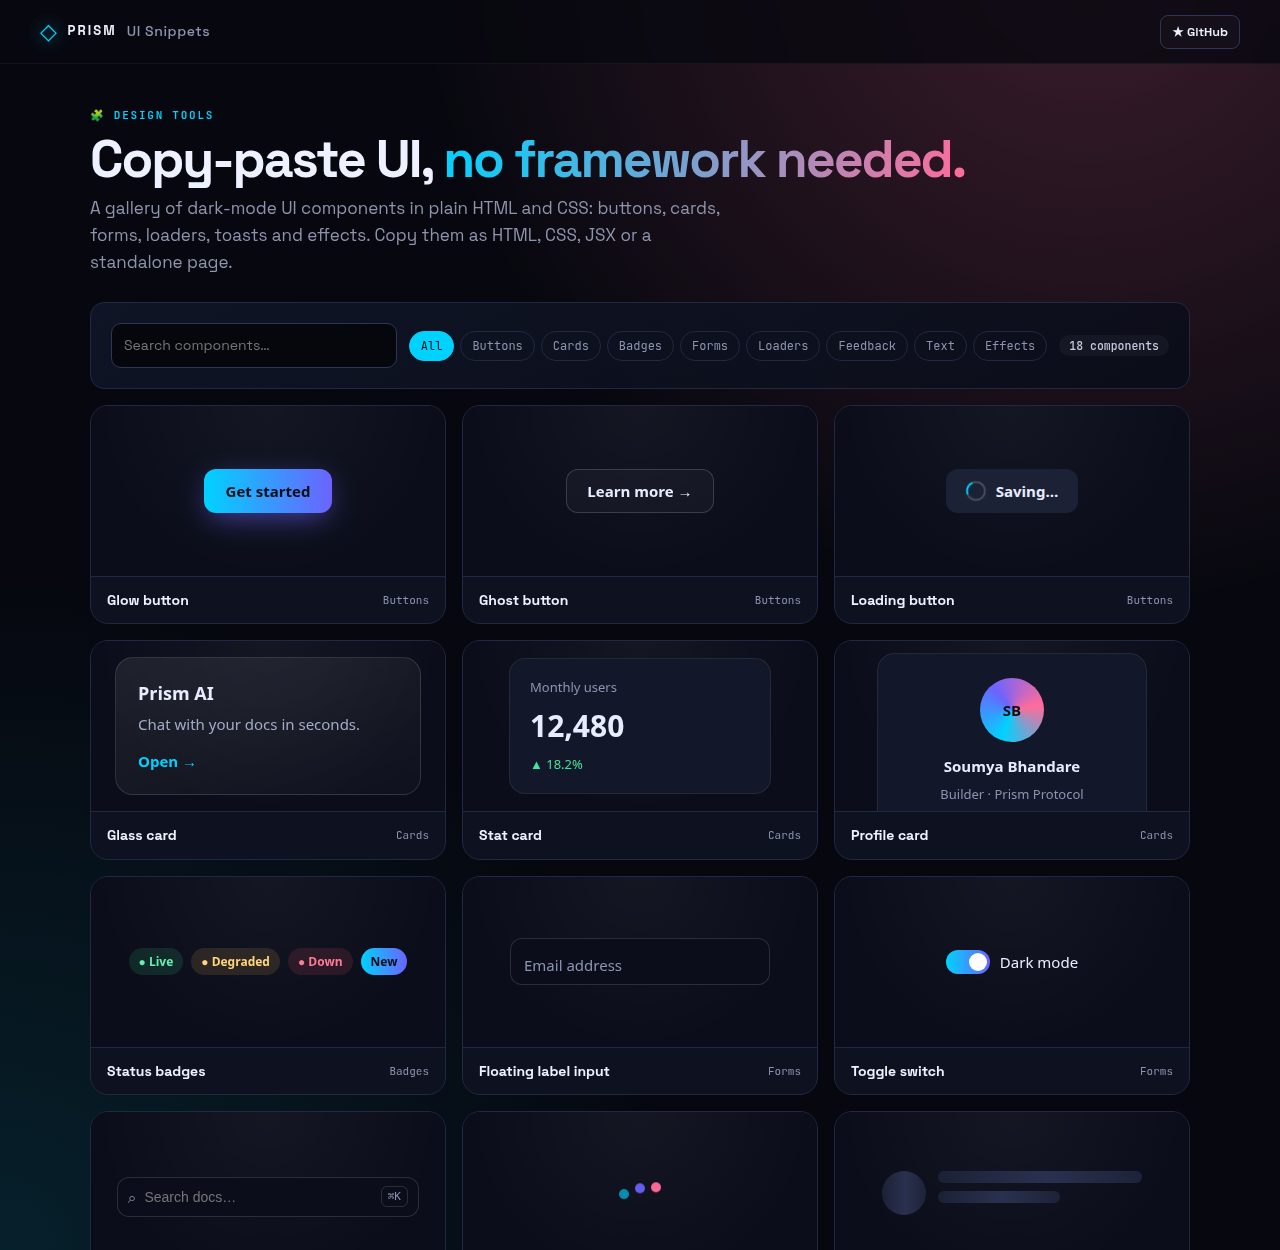
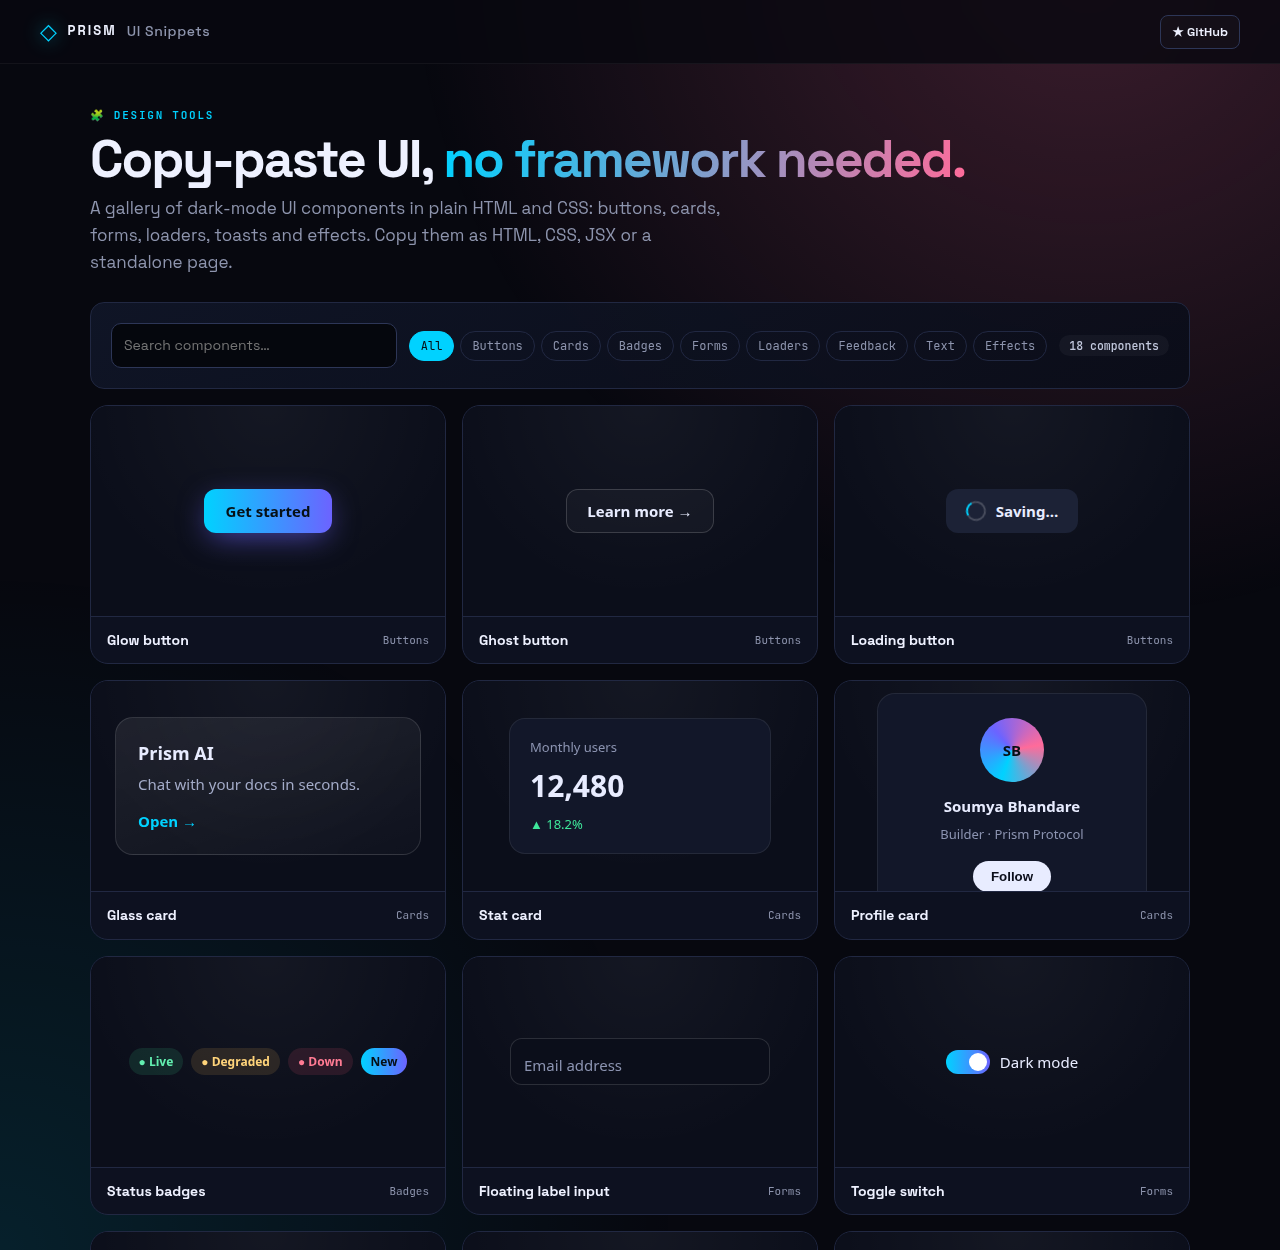
chore: update

diff --git a/css/app.css b/css/app.css
@@ -3,7 +3,7 @@
 .gallery{display:grid;grid-template-columns:repeat(auto-fill,minmax(280px,1fr));gap:16px}
 .tile{border:1px solid var(--line);border-radius:18px;background:var(--surface);overflow:hidden;display:flex;flex-direction:column;cursor:pointer;transition:border-color .15s,transform .15s;text-align:left;padding:0;color:inherit;font:inherit}
 .tile:hover{border-color:var(--accent);transform:translateY(-2px)}
-.stage{height:170px;display:grid;place-items:center;background:radial-gradient(circle at 50% 0,#ffffff0a,transparent 70%),#0b0e1a;overflow:hidden;padding:12px}
+.stage{height:210px;display:grid;place-items:center;background:radial-gradient(circle at 50% 0,#ffffff0a,transparent 70%),#0b0e1a;overflow:hidden;padding:12px}
 .tile .meta{display:flex;justify-content:space-between;align-items:center;padding:12px 16px;border-top:1px solid var(--line)}.tile b{font-size:14px}.tile small{font:11px var(--mono);color:var(--muted)}
 .dlg{width:min(860px,94vw);max-height:90vh;border:1px solid var(--line);border-radius:18px;background:var(--surface);color:var(--text);padding:20px}.dlg::backdrop{background:#000a;backdrop-filter:blur(4px)}
 .dprev{height:200px;display:grid;place-items:center;border-radius:12px;background:#0b0e1a;margin:12px 0;border:1px solid var(--line)}

diff --git a/README.md b/README.md
@@ -80,6 +80,7 @@ prism-ui-snippets/
 │   └── core.test.js
 ├── .gitignore
 ├── LICENSE
+├── README.md
 ├── index.html
 └── package.json
 ```
